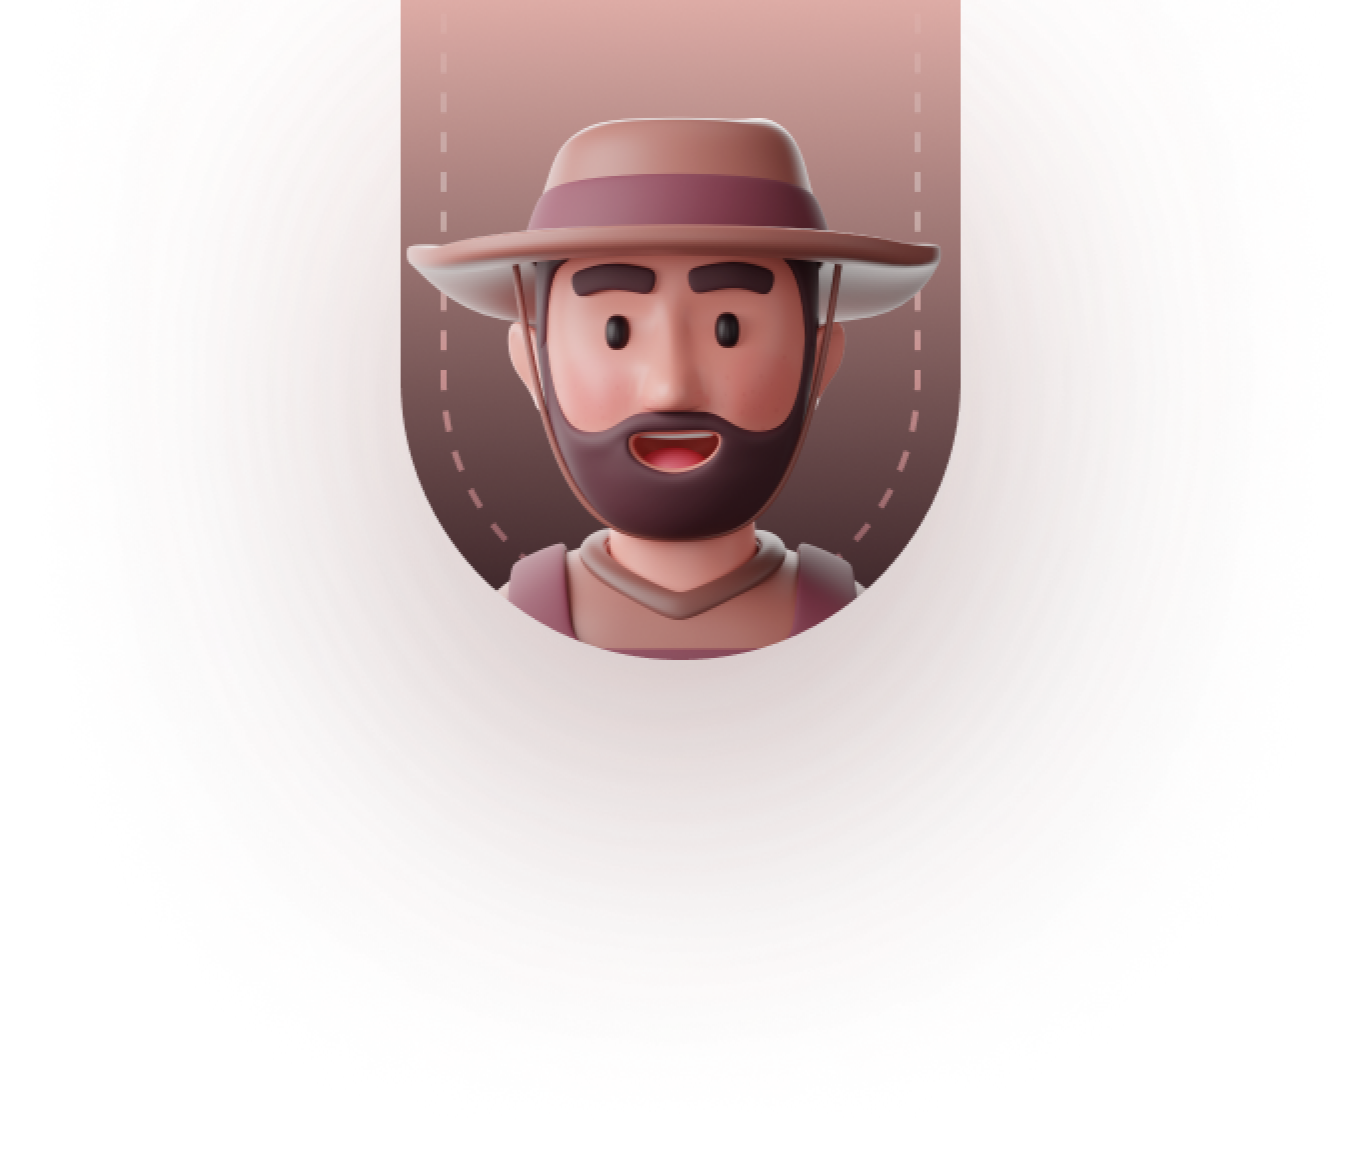
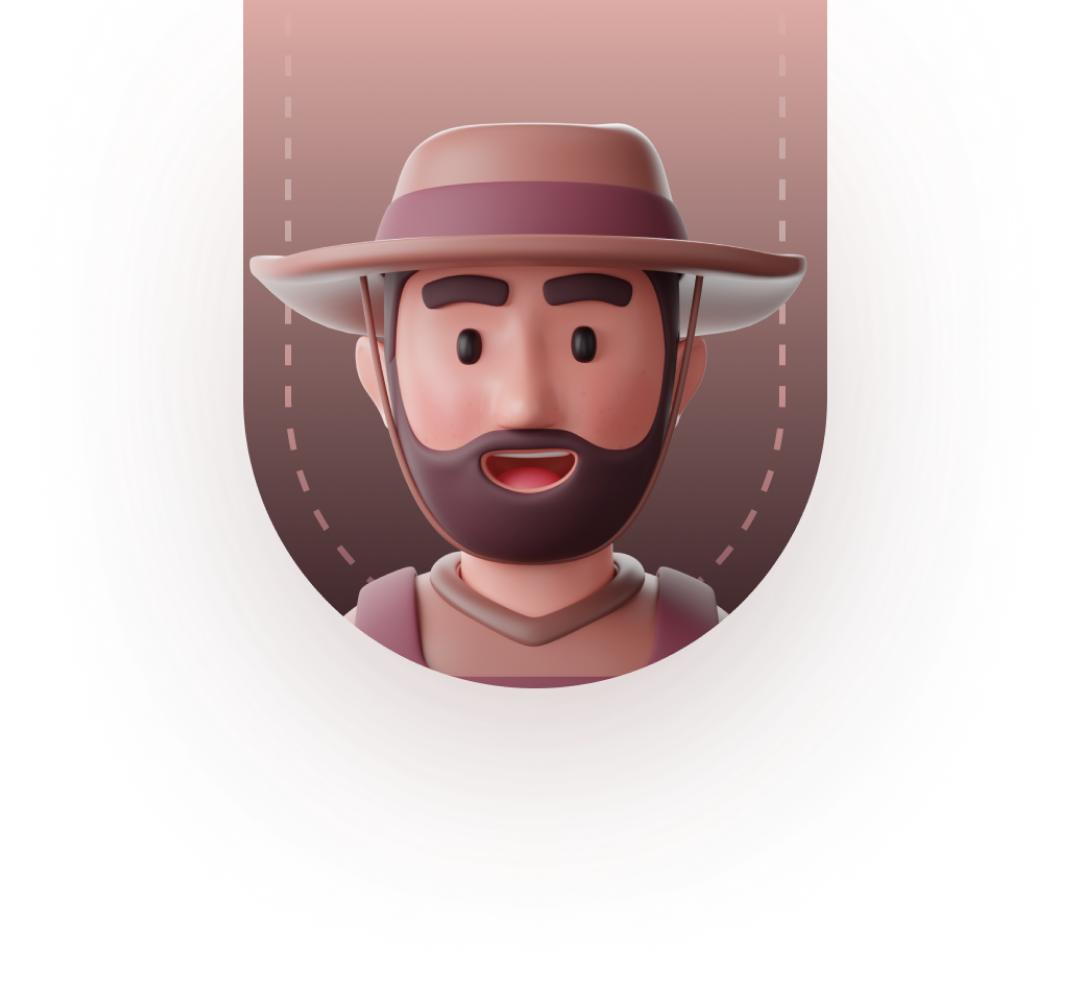
Tablet media querie

Changed region(s): [[0.2165, 0.0, 0.7732, 0.7116]]

diff --git a/src/containers/Home/Hero/Hero.styled.ts b/src/containers/Home/Hero/Hero.styled.ts
@@ -1,6 +1,6 @@
 import { FONT_PJS } from '@constants';
 import { Container } from '@styles/Blocks/Container';
-import { laptop } from 'src/constants/Media-queries';
+import { Breakpoints } from 'src/constants/Media-queries';
 import styled from 'styled-components';
 import { theme } from '../../../styles/Theme';
 
@@ -8,6 +8,7 @@ export const HeroStyled = styled.section`
   display: flex;
   flex-direction: column;
   align-items: center;
+  /* padding-top: 70px; */
 `;
 
 export const HeroContainer = styled.div`
@@ -17,12 +18,23 @@ export const HeroContainer = styled.div`
   display: flex;
   justify-content: center;
   height: calc(100vh - 70px);
-  /* outline: 2px solid red; */
+
+  @media only screen and (max-width: ${Breakpoints.tablet}) {
+    flex-direction: column;
+  }
 `;
 
 export const LeftSide = styled.div`
   width: 60%;
   margin-top: 40px;
+
+  @media only screen and (max-width: ${Breakpoints.tablet}) {
+    width: auto;
+  }
+
+  @media only screen and (max-width: ${Breakpoints.tablet}) {
+    margin: 0 90px;
+  }
 `;
 
 export const HeroHeaderTitles = styled.div`
@@ -30,6 +42,7 @@ export const HeroHeaderTitles = styled.div`
   flex-direction: column;
   gap: 24px;
   margin-bottom: 36px;
+  /* border: 2px solid red; */
 
   .hero {
     position: relative;
@@ -41,6 +54,20 @@ export const HeroHeaderTitles = styled.div`
       width: 80%;
       line-height: 1.4;
       letter-spacing: 1.5px;
+
+      @media only screen and (max-width: ${Breakpoints.laptop}) {
+        font-size: 48px;
+        width: 100%;
+        line-height: 1.4;
+        letter-spacing: 1px;
+      }
+
+      @media only screen and (max-width: ${Breakpoints.tablet}) {
+        text-align: center;
+        width: 80%;
+        margin: auto;
+        line-height: 1.3;
+      }
     }
 
     [class^='icon-'] {
@@ -50,29 +77,31 @@ export const HeroHeaderTitles = styled.div`
     .icon-1 {
       right: 110px;
       top: 15px;
+
+      @media only screen and (max-width: ${Breakpoints.laptop}) {
+        right: 30px;
+        top: 10px;
+      }
+
+      @media only screen and (max-width: ${Breakpoints.tablet}) {
+        /* display: none; */
+        top: -50px;
+        right: -30px;
+      }
     }
 
     .icon-2 {
       bottom: 18px;
       left: 130px;
-    }
 
-    @media only screen and (max-width: ${laptop}) {
-      .hero-title {
-        font-size: 48px;
-        width: 100%;
-        line-height: 1.4;
-        letter-spacing: 1px;
-      }
-
-      .icon-1 {
-        right: 30px;
-        top: 10px;
-      }
-
-      .icon-2 {
+      @media only screen and (max-width: ${Breakpoints.laptop}) {
         bottom: 15px;
         left: 110px;
+      }
+
+      @media only screen and (max-width: ${Breakpoints.tablet}) {
+        left: auto;
+        right: 50px;
       }
     }
   }
@@ -80,12 +109,20 @@ export const HeroHeaderTitles = styled.div`
   .hero-paragraph {
     font-size: 16px;
     line-height: 1.5;
+
+    @media only screen and (max-width: ${Breakpoints.tablet}) {
+      text-align: center;
+    }
   }
 `;
 
 export const ActionButtons = styled.div`
   display: flex;
   gap: 8px;
+
+  @media only screen and (max-width: ${Breakpoints.tablet}) {
+    justify-content: center;
+  }
 `;
 
 export const RightSide = styled.div`
@@ -101,11 +138,17 @@ export const RightSide = styled.div`
   .image-1 {
     top: -70px;
     right: -50px;
+    z-index: 12;
+    border: 2px solid red;
 
-    @media only screen and (max-width: ${laptop}) {
+    @media only screen and (max-width: ${Breakpoints.laptop}) {
       top: -130px;
-      right: -70px;
+      right: -60px;
       transform: scale(0.9);
+    }
+
+    @media only screen and (max-width: ${Breakpoints.tablet}) {
+      display: none;
     }
   }
 
@@ -113,10 +156,14 @@ export const RightSide = styled.div`
     bottom: 0;
     left: 300px;
 
-    @media only screen and (max-width: ${laptop}) {
+    @media only screen and (max-width: ${Breakpoints.laptop}) {
       left: 150px;
       bottom: -30px;
       transform: scale(0.9);
+    }
+
+    @media only screen and (max-width: ${Breakpoints.tablet}) {
+      left: 0;
     }
   }
 
@@ -124,6 +171,10 @@ export const RightSide = styled.div`
     top: 45%;
     right: 30%;
     transform: translateY(-50%);
+
+    @media only screen and (max-width: ${Breakpoints.tablet}) {
+      display: none;
+    }
   }
 
   .giveMore {
@@ -161,8 +212,12 @@ export const RightSide = styled.div`
       }
     }
 
-    @media only screen and (max-width: ${laptop}) {
+    @media only screen and (max-width: ${Breakpoints.laptop}) {
       right: 80px;
+    }
+
+    @media only screen and (max-width: ${Breakpoints.tablet}) {
+      display: none;
     }
   }
 `;

diff --git a/src/containers/Header/Header.styled.ts b/src/containers/Header/Header.styled.ts
@@ -1,17 +1,22 @@
 import { Container } from '@styles/Blocks/Container';
 import { theme } from '@styles/Theme';
 import Link from 'next/link';
-import { laptop } from 'src/constants/Media-queries';
+import { Breakpoints } from 'src/constants/Media-queries';
 import styled, { css } from 'styled-components';
 
-export const HeaderStyles = styled.div``;
+export const HeaderStyles = styled.div`
+  /* position: fixed;
+  top: 0;
+  width: 100%;
+  z-index: 10;
+  background-color: white; */
+`;
 
 export const HeaderContainer = styled.header`
   ${Container}
   height: 70px;
   display: flex;
   align-items: center;
-  border-bottom: 1px solid ${theme['main-Light']};
 
   .image {
     display: flex;
@@ -22,7 +27,7 @@ export const HeaderContainer = styled.header`
 export const Nav = styled.nav`
   display: block;
 
-  @media only screen and (max-width: ${laptop}) {
+  @media only screen and (max-width: ${Breakpoints.tablet}) {
     display: none;
   }
 `;
@@ -139,7 +144,7 @@ export const BurgerIcon = styled.button<{ activeHeader: boolean }>`
   display: none;
   position: relative;
 
-  @media only screen and (max-width: ${laptop}) {
+  @media only screen and (max-width: ${Breakpoints.tablet}) {
     display: block;
 
     &::before,

diff --git a/src/containers/Home/Hero/index.tsx b/src/containers/Home/Hero/index.tsx
@@ -28,6 +28,7 @@ const Hero = () => {
           <HeroHeaderTitles>
             <div className='hero'>
               <h1 className='hero-title'>Choose your first nft</h1>
+
               <div className='icon-1'>
                 <CircleIcon />
               </div>
@@ -52,7 +53,7 @@ const Hero = () => {
 
         <RightSide>
           <div className='image-1'>
-            <Image src={Image1} width={680} height={588} alt='NFT photo 1' />
+            <Image src={Image1} width={532} height={500} alt='NFT photo 1' />
           </div>
           <div className='image-2'>
             <Image src={Image2} width={680} height={588} alt='NFT photo 2' />

diff --git a/src/styles/Blocks/Container.ts b/src/styles/Blocks/Container.ts
@@ -1,4 +1,4 @@
-import { laptop } from 'src/constants/Media-queries';
+import { Breakpoints } from 'src/constants/Media-queries';
 import { css } from 'styled-components';
 
 export const Container = css`
@@ -7,8 +7,12 @@ export const Container = css`
   margin: 0 auto;
   transition: max-width 0.3s ease-out;
 
-  @media only screen and (max-width: ${laptop}) {
+  @media only screen and (max-width: ${Breakpoints.laptop}) {
     max-width: 940px;
     transition: max-width 0.3s ease-out;
+  }
+
+  @media only screen and (max-width: ${Breakpoints.tablet}) {
+    max-width: 710px;
   }
 `;

diff --git a/src/components/PageLayout/index.tsx b/src/components/PageLayout/index.tsx
@@ -1,14 +1,14 @@
 import React, { ReactNode } from 'react';
 import Footer from '../../containers/Footer';
 import Header from '../../containers/Header';
-import { InnerChildren, PageLayoutStyle } from './PageLayout.styled';
+import { PageLayoutStyle } from './PageLayout.styled';
 
 const PageLayout = ({ children }: { children: ReactNode | ReactNode[] }) => {
   return (
     <>
       <PageLayoutStyle>
         <Header />
-        <InnerChildren>{children}</InnerChildren>
+        {children}
         {/* <Footer /> */}
       </PageLayoutStyle>
     </>

diff --git a/src/components/PageLayout/PageLayout.styled.ts b/src/components/PageLayout/PageLayout.styled.ts
@@ -1,7 +1,6 @@
 import styled from 'styled-components';
 
-export const PageLayoutStyle = styled.div``;
-
-export const InnerChildren = styled.div`
-  /* border: 2px solid red; */
+export const PageLayoutStyle = styled.div`
+  display: flex;
+  flex-direction: column;
 `;

diff --git a/src/constants/Media-queries.ts b/src/constants/Media-queries.ts
@@ -1,4 +1,6 @@
-export const mobile = '375px';
-export const tablet = '768px';
-export const laptop = '1024px';
-export const desktop = '1440px';
+export const Breakpoints = {
+  mobile: '375px',
+  tablet: '768px',
+  laptop: '1024px',
+  desktop: '1440px',
+};

diff --git a/src/pages/index.tsx b/src/pages/index.tsx
@@ -7,7 +7,6 @@ const Home: NextPage = () => {
   return (
     <PageLayout>
       <Hero />
-
       <TrustedCompanies />
     </PageLayout>
   );
